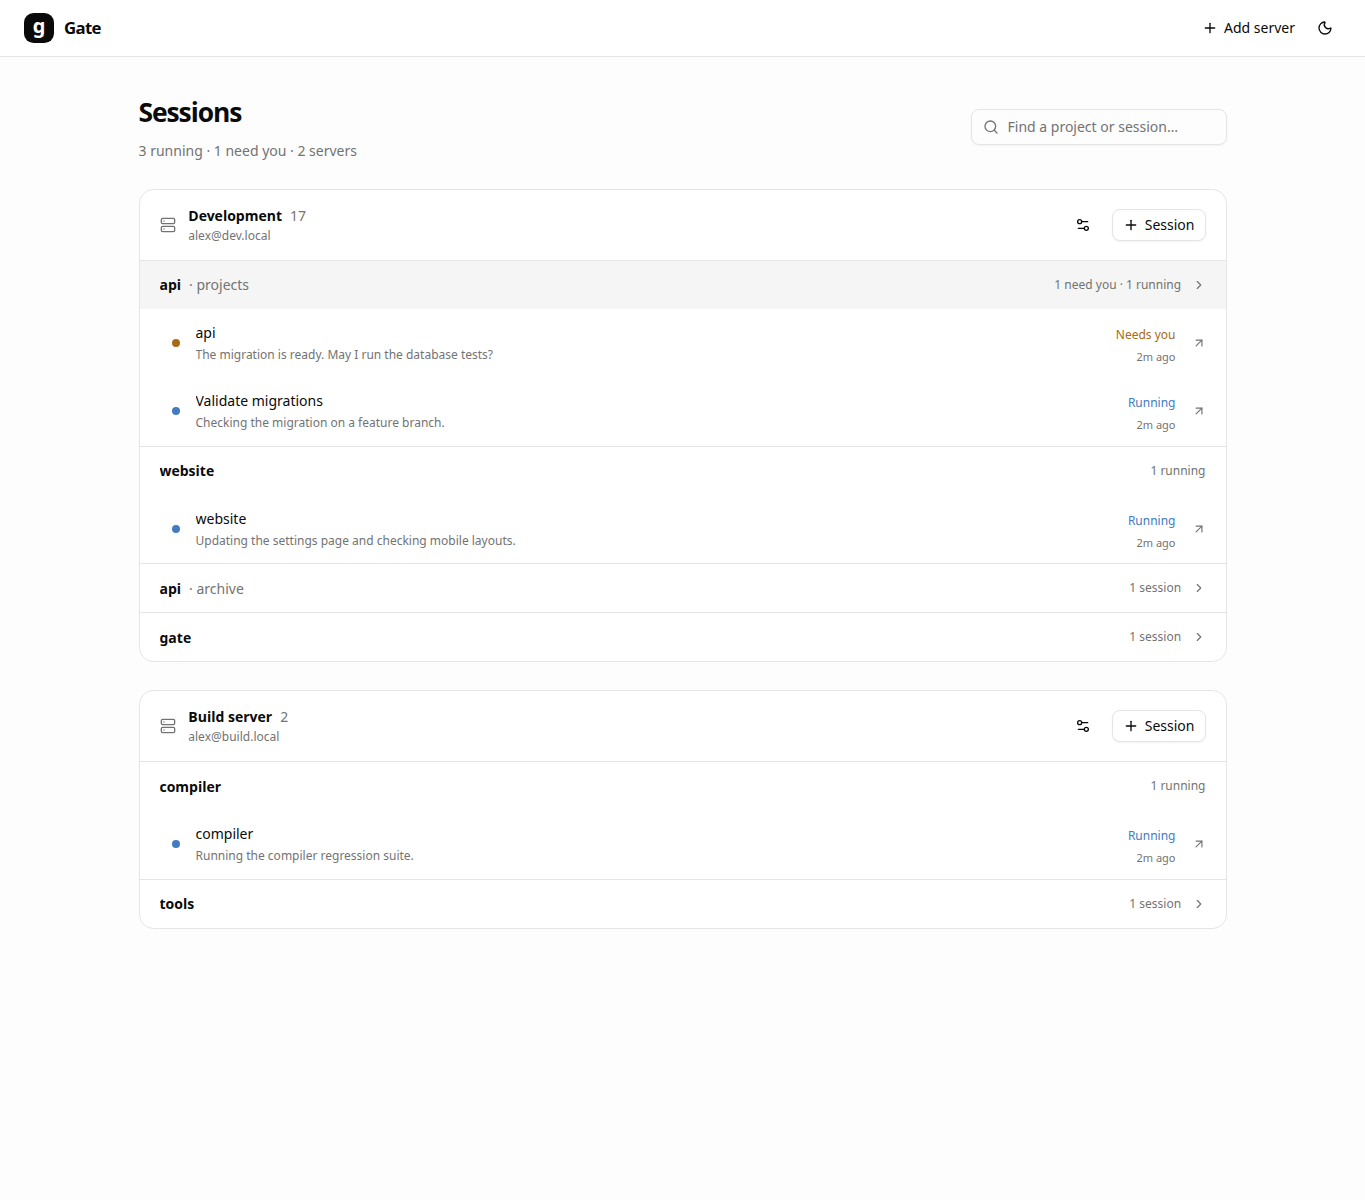
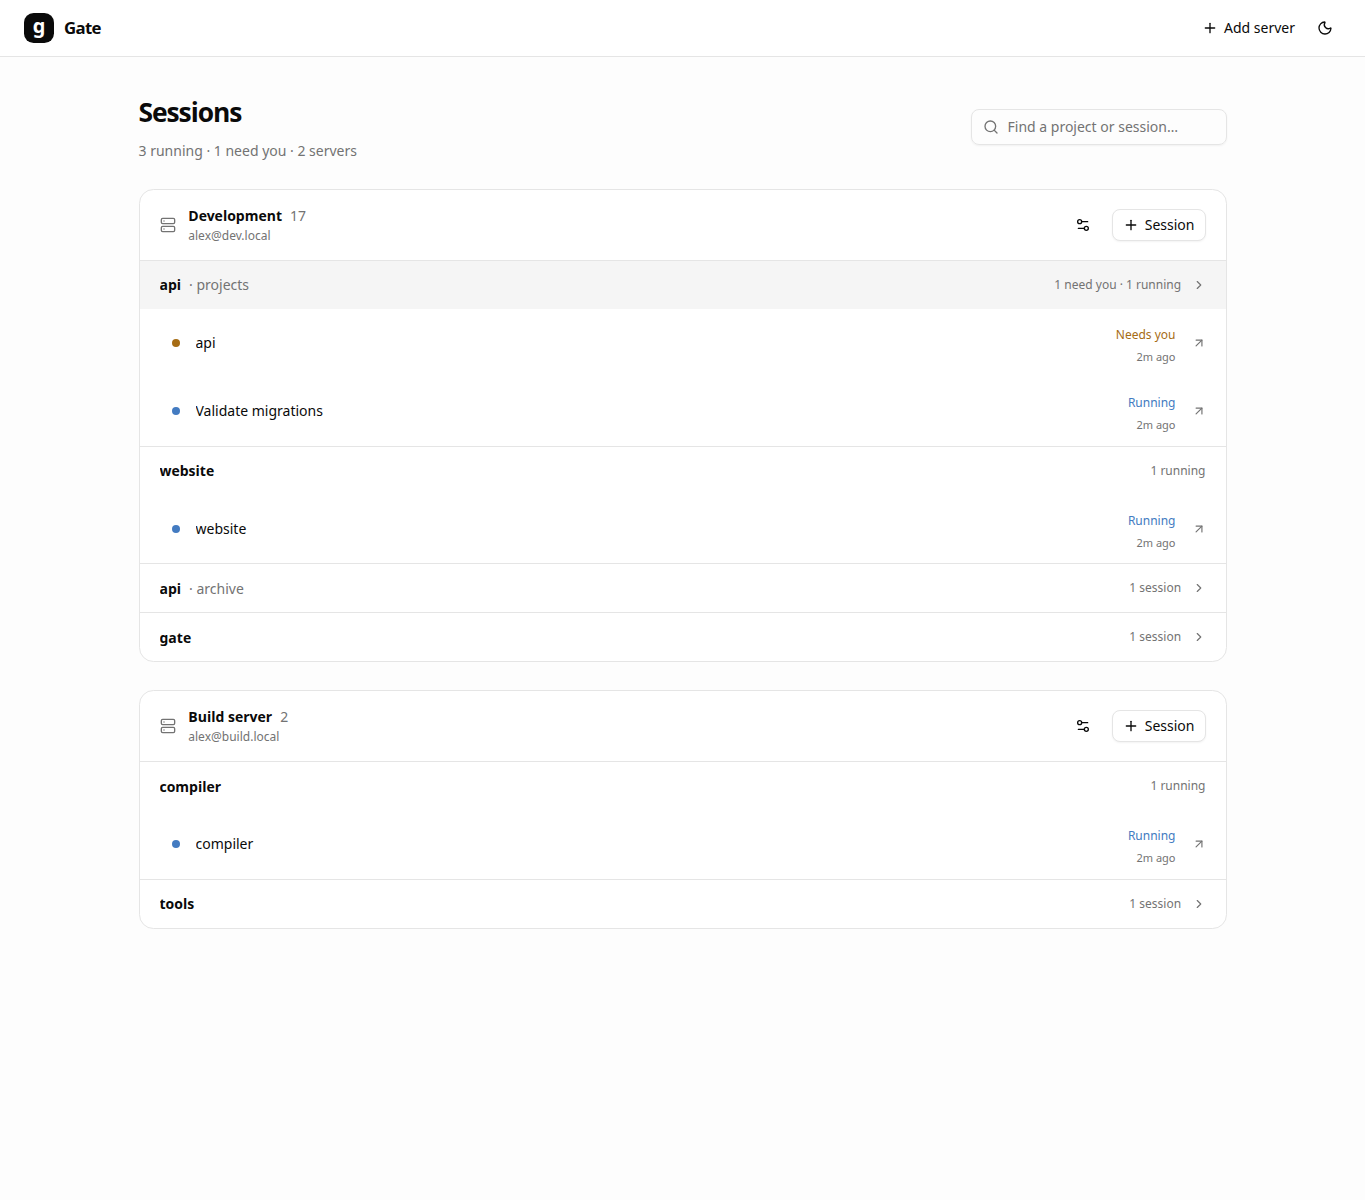
refactor(ui): remove body previews from session rows
Show session names with status and time, removing the body preview and directory fallback. Keep preview text searchable. Refresh the panel screenshot and browser selectors; client build, lint, and responsive browser smoke pass.

Changed region(s): [[0.1231, 0.2775, 0.3692, 0.37], [0.1231, 0.4317, 0.3692, 0.4625], [0.1538, 0.6783, 0.3077, 0.74]]

diff --git a/client/src/components/monitor/SessionMonitor.tsx b/client/src/components/monitor/SessionMonitor.tsx
@@ -105,8 +105,7 @@ function ProjectSessions({ project, searching, stale, onOpen }: {
     <div id={sessionsId}>
     {visible.map((session) => <button key={session.id} className="monitor-session" onClick={() => onOpen(session.id)}>
       <span className={`monitor-dot monitor-${stale ? 'unknown' : session.state}`} aria-hidden="true" />
-      <div className="min-w-0 flex-1"><p className="truncate text-sm font-medium">{session.name}</p>
-        <p className="mt-1 truncate text-xs text-muted-foreground" title={session.preview}>{session.preview || session.cwd}</p></div>
+      <p className="min-w-0 flex-1 truncate text-sm font-medium">{session.name}</p>
       <div className="shrink-0 text-right"><span className={`monitor-state monitor-${stale ? 'unknown' : session.state}`}>{stale ? 'Unknown' : labels[session.state]}</span>
         <p className="mt-1 text-[11px] text-muted-foreground"><time dateTime={new Date(session.updatedAt).toISOString()}>{age(session.updatedAt)}</time></p></div>
       <ArrowUpRight className="hidden size-3.5 shrink-0 text-muted-foreground sm:block" />
